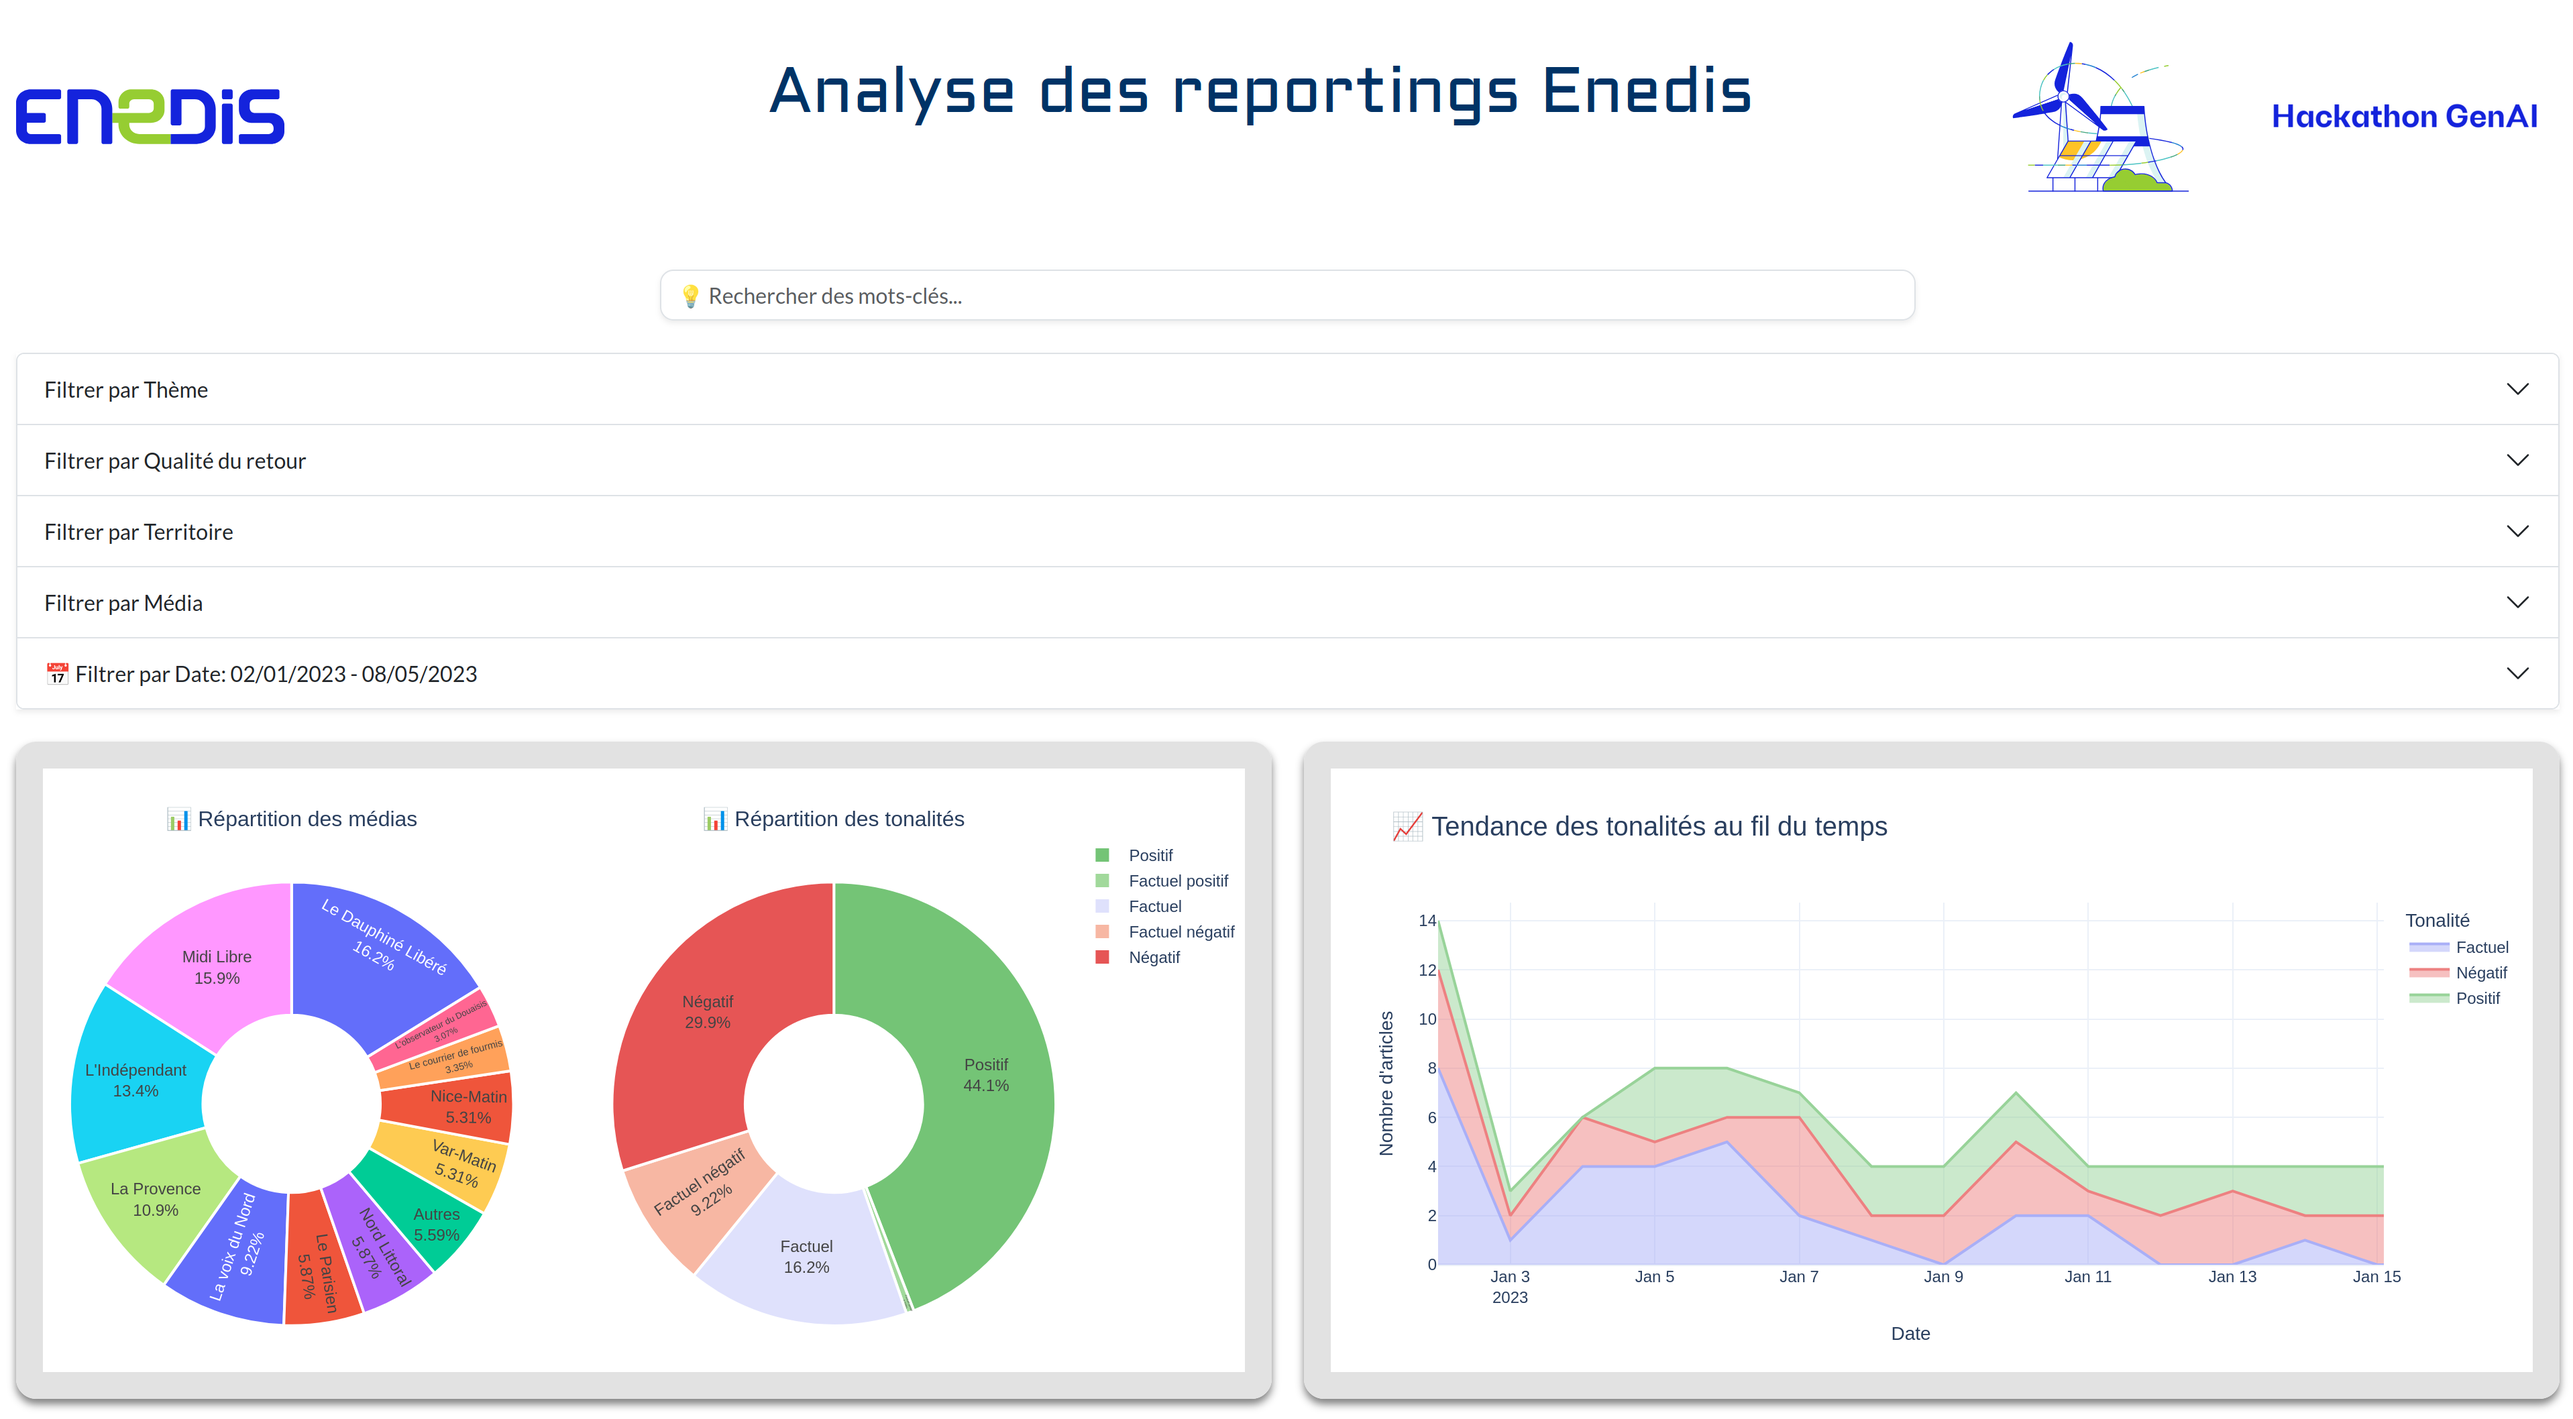
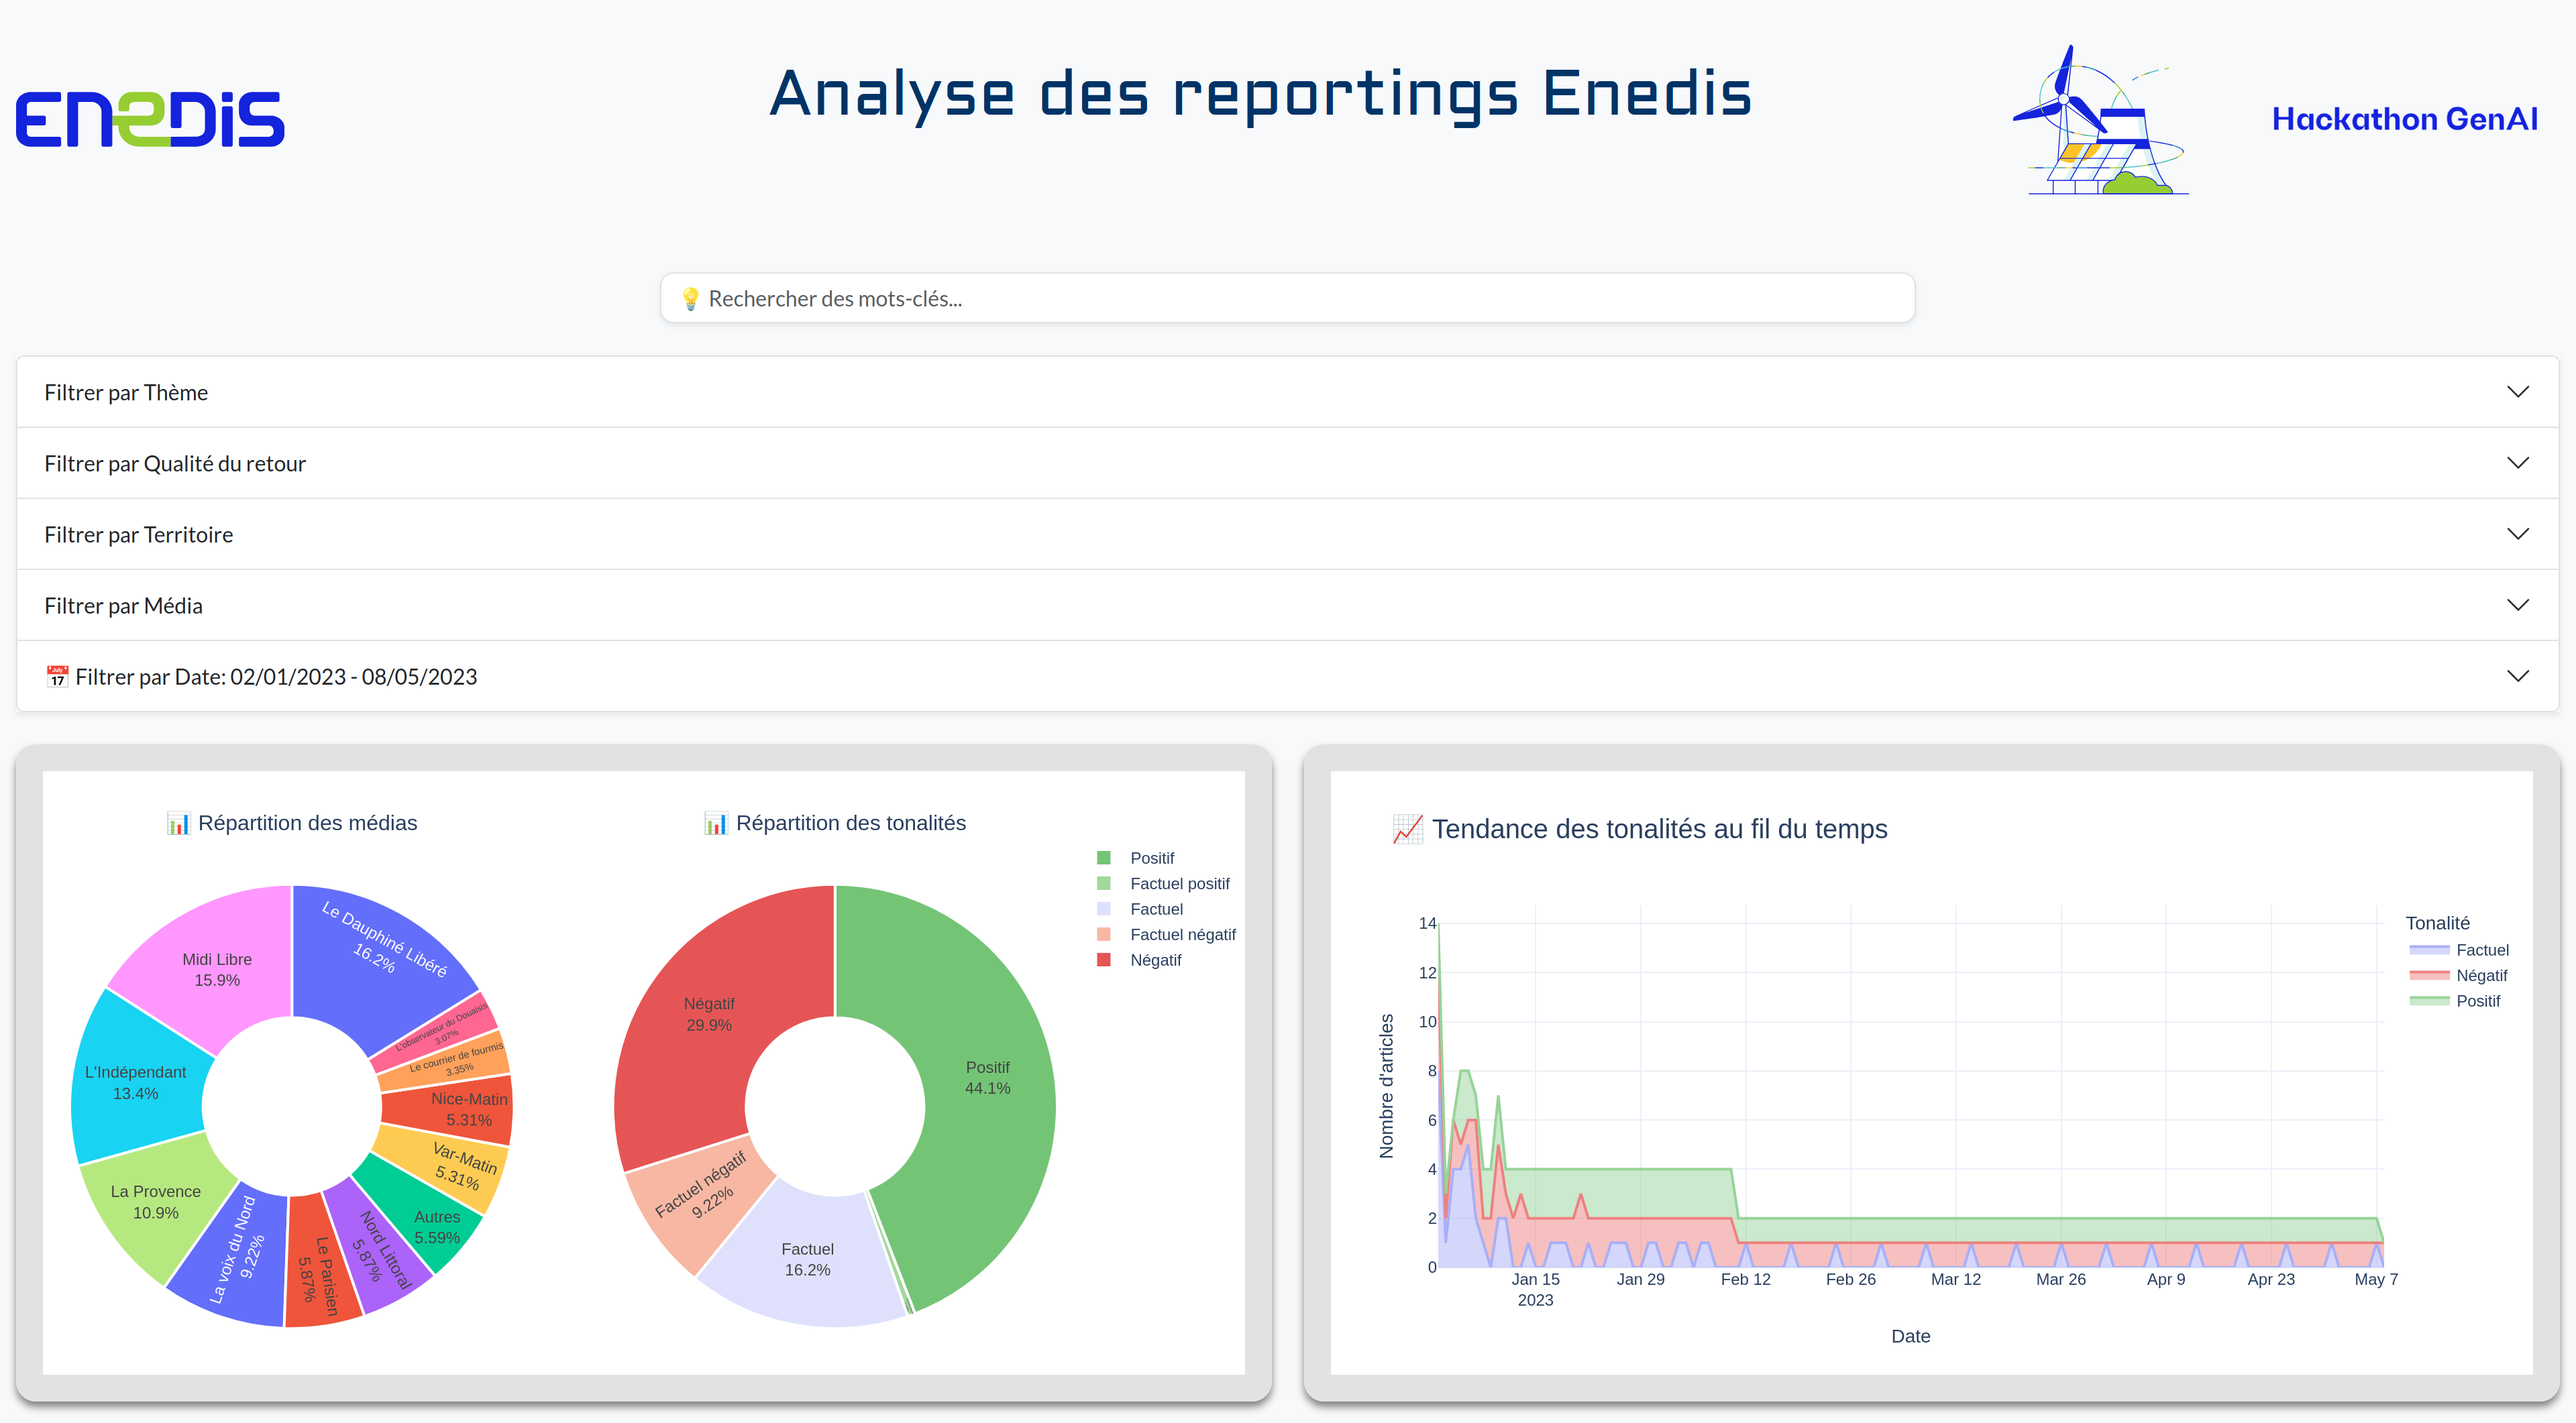
add background color

diff --git a/data-viz-app/app.py b/data-viz-app/app.py
@@ -103,7 +103,7 @@ dash_app.layout = dbc.Container([
         dbc.Col(html.Img(src='assets/img/enedis-logo.svg', height='60px'), width='auto', className='d-flex align-items-center justify-content-start'),
         dbc.Col(html.H1("Analyse des reportings Enedis", className='text-center mb-5 mt-3'), style=myCSS.title, width=True, className='d-flex justify-content-center'),
         dbc.Col(html.Img(src='assets/img/enedis-eolienne.svg', height='180px'), width='auto', className='d-flex align-items-center justify-content-start'),
-        dbc.Col(html.Img(src='assets/img/hackathon-genIA-logo.png', height='60px'), width='auto', className='d-flex align-items-center justify-content-start')
+        dbc.Col(html.Img(src='assets/img/hackathon-GenAI.png', height='60px'), width='auto', className='d-flex align-items-center justify-content-start')
     ], align='center', className='mb-4'),
 
     # Search Bar
@@ -154,7 +154,7 @@ dash_app.layout = dbc.Container([
             style_data_conditional=myCSS.data_table['style_data_conditional'],
         )
     ], style=myCSS.container)
-], fluid=True)
+], fluid=True, style=myCSS.global_layout)
 
 ############################################
 ## II.b) callback to update visualization ##

diff --git a/data-viz-app/assets/css/styles.py b/data-viz-app/assets/css/styles.py
@@ -1,5 +1,9 @@
 ###### Global ######
 
+global_layout = {
+    'backgroundColor': '#f8f9fa'
+}
+
 container = {
     'backgroundColor': '#e2e2e2',
     'padding': '20px',
